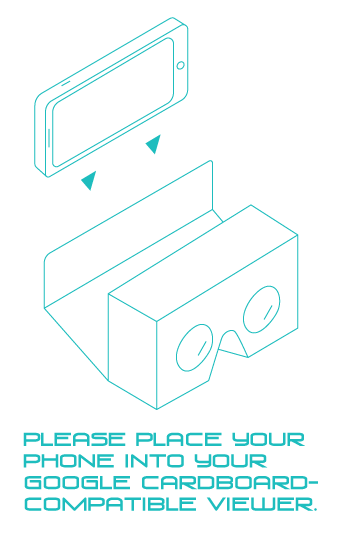
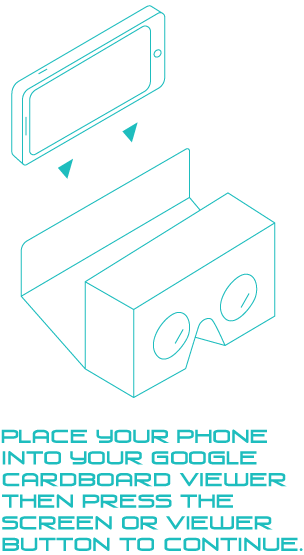
update cardboard instructions and only show if viewing in cardboard mode on mobile device

Changed region(s): [[0.0, 0.0, 1.0, 1.0], [0.5921, 0.4803, 0.6809, 0.5403]]

diff --git a/js/app.js b/js/app.js
@@ -32,7 +32,21 @@ if (navigator.userAgent.match(/(iPhone|iPod|iPad|Android|BlackBerry|IEMobile)/))
 
 		document.getElementById("cardboardInstructions").style.display = "block";
 
-		document.getElementById('veil').addEventListener('click', function(event) {
+		if(getParameterByName('viewMode') == "cardboard") {
+			document.getElementById('veil').addEventListener('click', function(event) {
+				//hide Cardboard instructions
+				document.getElementById("cardboardInstructions").style.display = "none";
+
+				//force landscape mode
+				screen.lockOrientation('landscape');
+				
+				//get going
+				var delay = setTimeout(onDeviceReady, 1000); //let orientation settle in before resize methods start getting called
+
+				//remove listener
+				this.removeEventListener('click',arguments.callee,false);
+			});
+		} else {
 			//hide Cardboard instructions
 			document.getElementById("cardboardInstructions").style.display = "none";
 
@@ -41,10 +55,8 @@ if (navigator.userAgent.match(/(iPhone|iPod|iPad|Android|BlackBerry|IEMobile)/))
 			
 			//get going
 			var delay = setTimeout(onDeviceReady, 1000); //let orientation settle in before resize methods start getting called
-
-			//remove listener
-			this.removeEventListener('click',arguments.callee,false);
-		});
+		}
+			
 	
 	}, false);
 } else {

diff --git a/css/style.css b/css/style.css
@@ -32,10 +32,10 @@ html, body {
 }
 
 #cardboardInstructions {
-	width: 170px;
-	height: 266px;
+	width: 152px;
+	height: 278px;
 	display: none;
-	margin: 0 auto;
+	margin: 100px auto 0 auto;
 	pointer-events: none;
 }
 
